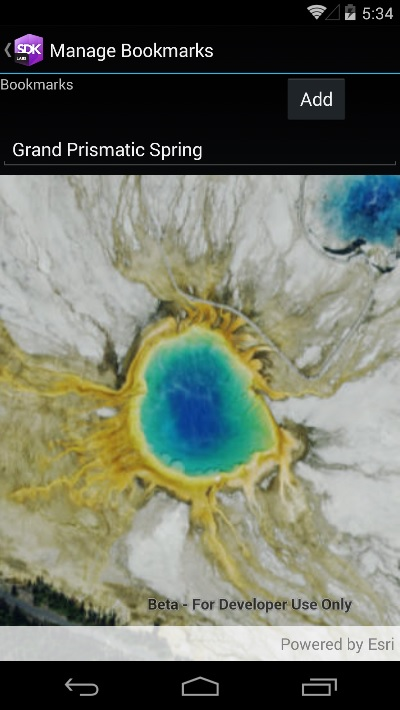
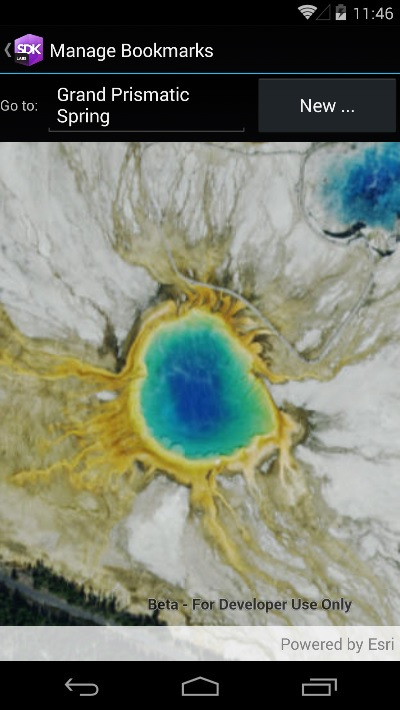
Implemented Thad's code review changes.

diff --git a/src/Forms/Shared/Samples/Map/ManageBookmarks/ManageBookmarks.xaml b/src/Forms/Shared/Samples/Map/ManageBookmarks/ManageBookmarks.xaml
@@ -4,18 +4,28 @@
              xmlns:esriUI="clr-namespace:Esri.ArcGISRuntime.Xamarin.Forms;assembly=Esri.ArcGISRuntime.Xamarin.Forms"
              xmlns:mapping="clr-namespace:Esri.ArcGISRuntime.Mapping;assembly=Esri.ArcGISRuntime" 
              x:Class="ArcGISRuntimeXamarin.Samples.ManageBookmarks.ManageBookmarks">
-  <Grid>
+<Grid>
     <Grid.RowDefinitions>
       <RowDefinition Height="auto" />
       <RowDefinition Height="*" />
     </Grid.RowDefinitions>
-    <StackLayout Orientation="Vertical">
-      <StackLayout Orientation="Horizontal">
-        <Label Text="Bookmarks" Margin="0,0,200,0"/>
-        <Button x:Name="ButtonAddBookmark" Text="Add" Clicked="ButtonAddBookmark_Clicked" />
-      </StackLayout>
-      <Picker x:Name="bookmarkPicker" SelectedIndexChanged="BookmarkPicker_SelectedIndexChanged"/>
-    </StackLayout>
+    <Grid Grid.Row="0">
+    <Grid.ColumnDefinitions>
+      <ColumnDefinition Width="Auto"/>
+      <ColumnDefinition Width="200"/>
+      <ColumnDefinition/>
+    </Grid.ColumnDefinitions>
+    <Label Grid.Column="0"
+            HorizontalTextAlignment="Center" VerticalTextAlignment="Center"
+            Text="Go to:" />
+    <Picker x:Name="bookmarkPicker"
+              Grid.Column="1"
+            SelectedIndexChanged="BookmarkPicker_SelectedIndexChanged"/>
+    <Button x:Name="ButtonAddBookmark" 
+              Grid.Column="2"
+            Text="New ..." 
+            Clicked="ButtonAddBookmark_Clicked" />
+  </Grid>
       <esriUI:MapView x:Name="MyMapView" Grid.Row="1"/>
   </Grid>
 </ContentPage>

diff --git a/src/Forms/Shared/Samples/Map/ManageBookmarks/ManageBookmarks.xaml.cs b/src/Forms/Shared/Samples/Map/ManageBookmarks/ManageBookmarks.xaml.cs
@@ -29,10 +29,10 @@ namespace ArcGISRuntimeXamarin.Samples.ManageBookmarks
         private void Initialize()
         {
 
-            // Create new map with a basemap.
+            // Create new map with a base map
             Map myMap = new Map(Basemap.CreateImageryWithLabels());
 
-            // Set the mapview, map property to the basemap.
+            // Set the map view, map property to the base map
             MyMapView.Map = myMap;
 
             // Create a set of predefined bookmarks; each one follows the pattern of:
@@ -41,7 +41,7 @@ namespace ArcGISRuntimeXamarin.Samples.ManageBookmarks
             // ~ Give the bookmark a name
             // ~ Assign the viewpoint
             // ~ Add the bookmark to bookmark collection of the map
-            // ~ Add the bookmark name to the UI combobox for the user to choose from 
+            // ~ Add the bookmark name to the UI combo box for the user to choose from 
 
             // Bookmark-1
             Viewpoint myViewpoint1 = new Viewpoint(27.3805833, 33.6321389, 6000);
@@ -75,29 +75,29 @@ namespace ArcGISRuntimeXamarin.Samples.ManageBookmarks
             MyMapView.Map.Bookmarks.Add(myBookmark4);
             bookmarkPicker.Items.Add(myBookmark4.Name);
 
-            // Set the initial combobox selection to the lat bookmark added.
+            // Set the initial combo box selection to the last bookmark added
             bookmarkPicker.SelectedIndex = 3;
 
-            // Zoom to the last bookmark.
+            // Zoom to the last bookmark
             myMap.InitialViewpoint = myMap.Bookmarks.Last().Viewpoint;
         }
 
         private void BookmarkPicker_SelectedIndexChanged(object sender, EventArgs e)
         {
-            // Get the selected bookmarks name.
+            // Get the selected bookmarks name
             var selectedBookmarkName = bookmarkPicker.Items[bookmarkPicker.SelectedIndex];
 
-            // Get the collection of bookmarks in the map.
+            // Get the collection of bookmarks in the map
             BookmarkCollection myBookmarkCollection = MyMapView.Map.Bookmarks;
 
-            // Loop through each bookmark. 
+            // Loop through each bookmark
             foreach (var myBookmark in myBookmarkCollection)
             {
-                // Get the bookmarks name.
+                // Get the bookmarks name
                 var theBookmarkName = myBookmark.Name;
 
                 // If the selected bookmarks name matches one in the bookmark collection
-                // set that to be the maps viewpoint.
+                // set that to be the maps viewpoint
                 if (theBookmarkName == selectedBookmarkName.ToString())
                 {
                     MyMapView.SetViewpoint(myBookmark.Viewpoint);
@@ -106,7 +106,7 @@ namespace ArcGISRuntimeXamarin.Samples.ManageBookmarks
         }
 
         // Member (aka. global) variables for the dynamically created page allowing 
-        // the user to add additional bookmarks.
+        // the user to add additional bookmarks
         public Entry myEntryBookmarkName;
         public ContentPage bookmarkAddPage;
 
@@ -115,16 +115,16 @@ namespace ArcGISRuntimeXamarin.Samples.ManageBookmarks
             // Create root layout
             var layout = new StackLayout();
 
-            // Label for the UI to let the user know to add a bookmark.
+            // Label for the UI to let the user know to add a bookmark
             var myLabel = new Label();
             myLabel.Text = "Bookmark Name:";
             layout.Children.Add(myLabel);
 
-            // Entry location for the user to enter the bookmark name.
+            // Entry location for the user to enter the bookmark name
             myEntryBookmarkName = new Entry();
             layout.Children.Add(myEntryBookmarkName);
 
-            // Button to accept the users bookmark name.
+            // Button to accept the users bookmark name
             var okButton = new Button();
             okButton.Text = "OK";
             okButton.Clicked += OkButton_Clicked;
@@ -137,38 +137,38 @@ namespace ArcGISRuntimeXamarin.Samples.ManageBookmarks
                 Title = "Add Bookmark"
             };
 
-            // Navigate to the dynamically created user interaction page.
+            // Navigate to the dynamically created user interaction page
             await Navigation.PushAsync(bookmarkAddPage);
         }
 
         private void OkButton_Clicked(object sender, EventArgs e)
         {
-            // Get the name from the text field.
+            // Get the name from the text field
             var name = myEntryBookmarkName.Text;
 
-            // Exit if the name is empty.
+            // Exit if the name is empty
             if (string.IsNullOrEmpty(name))
                 return;
 
-            // Check to see if there is a bookmark with same name.
+            // Check to see if there is a bookmark with same name
             bool doesNameExist = MyMapView.Map.Bookmarks.Any(b => b.Name == name);
             if (doesNameExist)
                 return;
 
-            // Create a new bookmark.
+            // Create a new bookmark
             Bookmark myBookmark = new Bookmark();
             myBookmark.Name = name;
 
-            // Get the current viewpoint from map and assign it to bookmark. 
+            // Get the current viewpoint from map and assign it to bookmark 
             myBookmark.Viewpoint = MyMapView.GetCurrentViewpoint(ViewpointType.BoundingGeometry);
 
-            // Add the bookmark to bookmark collection of the map.
+            // Add the bookmark to bookmark collection of the map
             MyMapView.Map.Bookmarks.Add(myBookmark);
 
-            // Add the bookmark name to the list of choices in the picker.
+            // Add the bookmark name to the list of choices in the picker
             bookmarkPicker.Items.Add(name);
 
-            // Close the user interaction page to add a bookmark. 
+            // Close the user interaction page to add a bookmark 
             Navigation.RemovePage(bookmarkAddPage);
             bookmarkAddPage = null;
         }
